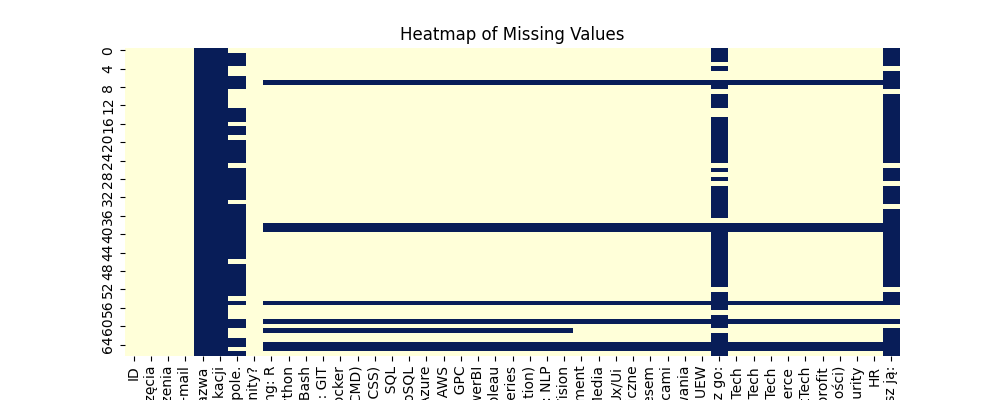
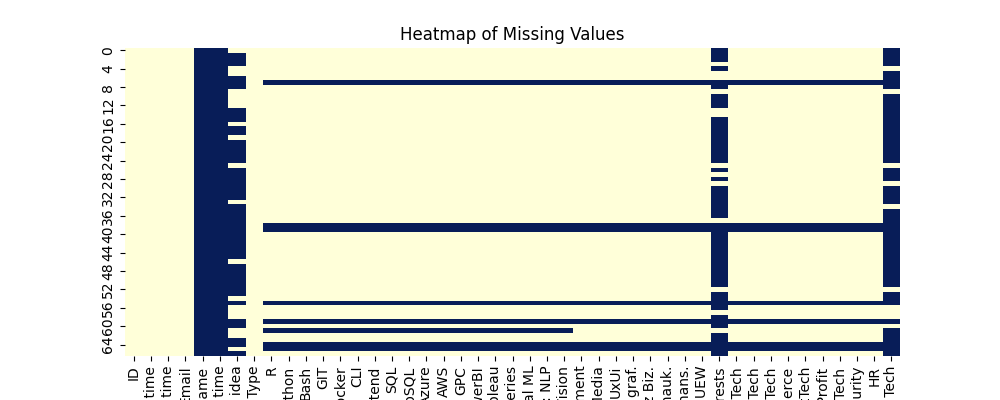
full column rename

Changed region(s): [[0.124, 0.9, 0.744, 1.0], [0.775, 0.93, 0.899, 1.0]]

diff --git a/src/wait_people_analytics/pipelines/data_processing/nodes.py b/src/wait_people_analytics/pipelines/data_processing/nodes.py
@@ -6,18 +6,19 @@ import matplotlib.pyplot as plt
 import seaborn as sns
 
 
-def _add_participation_detail_to_df(survey: pd.DataFrame) -> pd.DataFrame:
+def add_participation_detail_to_df(survey: pd.DataFrame) -> pd.DataFrame:
+    participation_column_name = "Participation Type"
     survey.insert(1, "Participant", "")
     survey.insert(1, "Organizer", "")
     survey.insert(1, "Consumer", "")
     survey["Participant"] = np.where(
         (
-            survey["W jaki sposób chcesz uczestniczyć w Community?"]
+            survey[participation_column_name]
             == "Chcę uczestniczyć w projekcie data"
         )
         |
         (
-            survey["W jaki sposób chcesz uczestniczyć w Community?"]
+            survey[participation_column_name]
             == 'Chcę uczestniczyć w projekcie data i organizować "życie" Community'
         ),
         1,
@@ -25,30 +26,29 @@ def _add_participation_detail_to_df(survey: pd.DataFrame) -> pd.DataFrame:
     )
     survey["Organizer"] = np.where(
         (
-            survey["W jaki sposób chcesz uczestniczyć w Community?"]
-            == 'Chcę organizować "życie" Community'
+            survey[participation_column_name] == 'Chcę organizować "życie" Community'
         )
         |
         (
-            survey["W jaki sposób chcesz uczestniczyć w Community?"]
+            survey[participation_column_name]
             == 'Chcę uczestniczyć w projekcie data i organizować "życie" Community'
         ),
         1,
         0,
     )
     survey["Consumer"] = np.where(
-        survey["W jaki sposób chcesz uczestniczyć w Community?"]
+        survey[participation_column_name]
         == 'Póki co chcę czerpać, obserwować, "konsumować content"',
         1,
         0,
     )
     survey = survey.drop(
-        columns=["W jaki sposób chcesz uczestniczyć w Community?"]
+        columns=[participation_column_name]
     )
     return survey
 
 
-def _rename_columns(survey: pd.DataFrame) -> pd.DataFrame:
+def rename_columns(survey: pd.DataFrame) -> pd.DataFrame:
     survey = survey.rename(
         columns={
             "Godzina rozpoczęcia": "Survey start time",
@@ -84,7 +84,7 @@ def _rename_columns(survey: pd.DataFrame) -> pd.DataFrame:
             "Nawiązywanie Relacji z naukowcami": "Naw. Rel. z nauk.",
             "Pozyskiwanie finansowania": "Pozysk. Finans.",
             "Współpraca z administracją UEW": "Wsp. z adm. UEW",
-            "Jeżeli jest obszar, na którym się znasz i chcesz go wykorzystać, dopisz go:": "Dodatkowy obszar",
+            "Jeżeli jest obszar, na którym się znasz i chcesz go wykorzystać, dopisz go:": "Interests",
             "FinTech": "FinTech",
             "HealthTech": "HealthTech",
             "FashionTech": "FashionTech",
@@ -94,32 +94,25 @@ def _rename_columns(survey: pd.DataFrame) -> pd.DataFrame:
             "PropTech (nieruchomości)": "PropTech",
             "Cybersecurity": "Cybersecurity",
             "HR": "HR",
-            "Jeżeli pominięto branżę, na której się znasz dopisz ją:": "Dodatkowe Branży",
+            "Jeżeli pominięto branżę, na której się znasz dopisz ją:": "Additional Tech",
         }
     )
     return survey
 
 
-def _drop_columns(survey: pd.DataFrame) -> pd.DataFrame:
+def drop_columns(survey: pd.DataFrame) -> pd.DataFrame:
     survey = survey.drop(
         columns=[
-            "Twój pomysł",
-            "Zainteresowania",
-            "Dodatkowe Branży",
-            "Godzina rozpoczęcia",
-            "Godzina ukończenia",
-            "Adres e-mail",
-            "Nazwa",
-            "Czas ostatniej modyfikacji",
+            "Survey start time",
+            "Survey end time",
+            "Email",
+            "Name",
+            "Survey last modify time",
+            "Your idea",
+            "Interests",
+            "Additional Tech",
         ]
     )
-    return survey
-
-
-def preprocess_survey(survey: pd.DataFrame) -> pd.DataFrame:
-    survey = _add_participation_detail_to_df(survey)
-    survey = _rename_columns(survey)
-    # survey = _drop_columns(survey)
     return survey
 
 

diff --git a/src/wait_people_analytics/pipelines/data_processing/pipeline.py b/src/wait_people_analytics/pipelines/data_processing/pipeline.py
@@ -1,20 +1,39 @@
 from kedro.pipeline import Pipeline, node, pipeline
 
-from .nodes import preprocess_survey, generate_missing_value_heatmap
+from .nodes import (
+    generate_missing_value_heatmap,
+    rename_columns,
+    add_participation_detail_to_df,
+    drop_columns,
+)
 
 
 def create_pipeline(**kwargs) -> Pipeline:
     return pipeline(
         [
             node(
-                func=preprocess_survey,
+                func=rename_columns,
                 inputs="raw_survey",
+                outputs="renamed_raw_survey",
+                name="rename_columns",
+            ),
+            node(
+                func=add_participation_detail_to_df,
+                inputs="renamed_raw_survey",
+                outputs="changed_participation_detail",
+                name="add_participation_detail_to_df",
+            ),
+            node(
+                func=drop_columns,
+                inputs="changed_participation_detail",
                 outputs="processed_survey",
+                name="drop_columns",
             ),
             node(
                 func=generate_missing_value_heatmap,
-                inputs="raw_survey",
+                inputs="renamed_raw_survey",
                 outputs="missing_value_heatmap_plot",
+                name="generate_missing_value_heatmap",
             ),
         ]
     )
